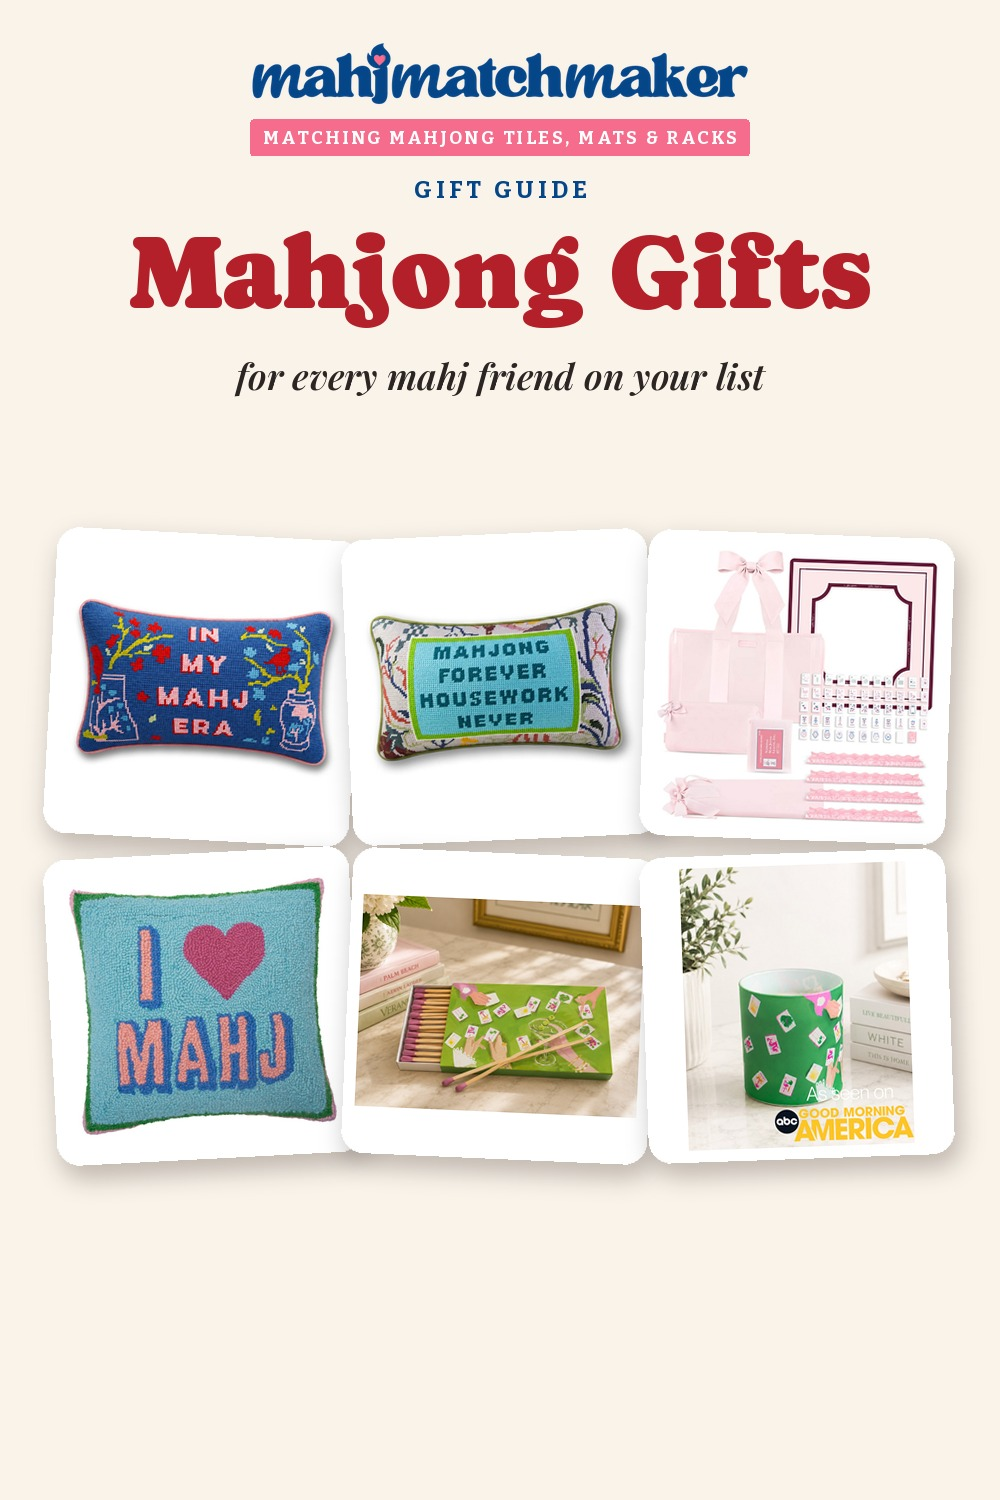
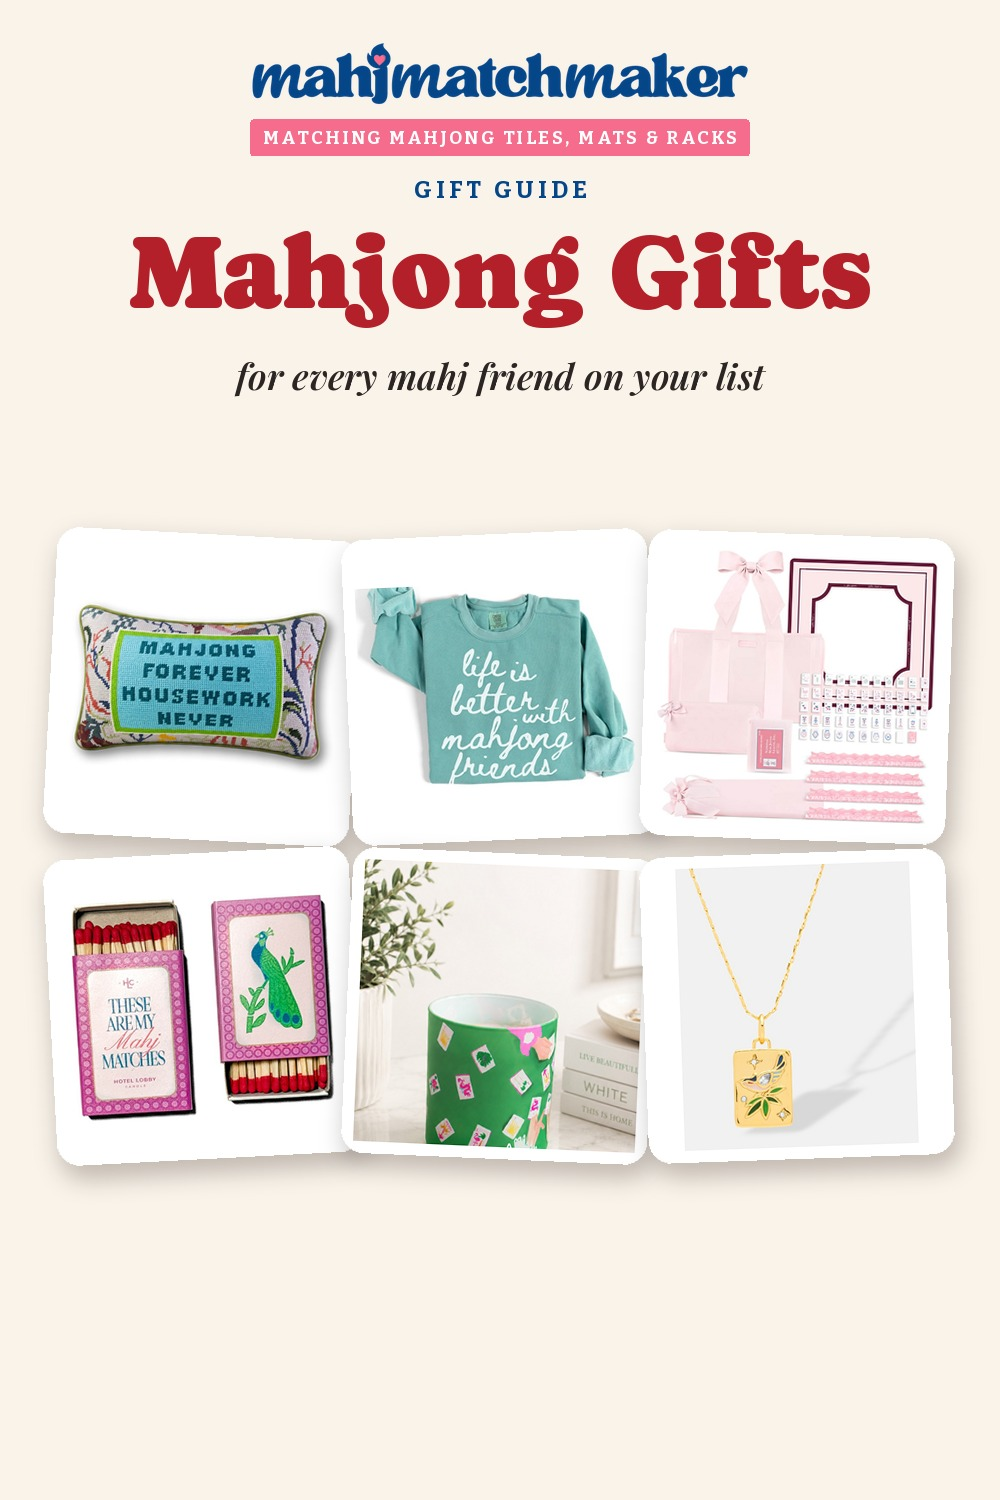
ShopMy Mahjong Gifts cover: new six
Claude-Session: https://claude.ai/code/session_01PiwamzEftkvrKP5d7A1QEB

diff --git a/scripts/shopmy/portrait_picks.py b/scripts/shopmy/portrait_picks.py
@@ -14,7 +14,7 @@ PICKS = {
  'the-mahjong-house': '27861 27725 27601 30241 29673 28852',
  'mahjong-storage': '14131 29865 30044 04470 04465 04455',
  'merry-mahjong': '16077 26001 32169 32833 16391 20906',
- 'mahjong-gifts': '16286 13699 17133 02354 20713 20708',
+ 'mahjong-gifts': '13699 49857 17133 21234 20708 20563'   # Oct 25 10:07pm: one pillow (Housework Never), sweatshirt, pink tote, Hotel Lobby matchbox duo, BAMS CLUB candle, Origami Owl tile necklace,
  'bam-lets-mahjong': '94546 94603 94625 59321 94505 94516',   # mats on top, matching tile sets below (59321/94505/94516 = BAM's own site photos)
  'betty-june-jeannette': '26037 26853 26603 25859 15115 14757',
  'halloween-mahjong-table': '37389 38653 37516 37993 39262 37822',

diff --git a/scripts/shopmy/make_covers.py b/scripts/shopmy/make_covers.py
@@ -21,6 +21,8 @@ def hexc(h): h = h.lstrip('#'); return tuple(int(h[i:i+2], 16) for i in (0, 2, 4
 
 # per-pin crop box (fractions l, t, r, b) to cut black bags / packaging
 CROP = {
+    96620708: (0, 0, 1, .80),      # green dice candle: drop the Good Morning America badge
+    97349857: (0, .09, 1, .90),      # Life is Better with Mahjong Friends sweatshirt: drop the 'seafoam' label + shop logo
     96210831: (0, 0, .845, .875),        # pink tiger moon: drop the rolled bag
     96210535: (0, 0, 1, 1),
     96212924: (0, 0, .80, .98),    # Sweet Jojo: drop the black bag

diff --git a/docs/ANSWERS.md b/docs/ANSWERS.md
@@ -198,3 +198,4 @@ Format: `- YYYY-MM-DD HH:MM · chat · topic · her answer in her words (short) 
 - 2026-10-25 9:56pm · Main · Tiffany: Bam Bird Boutique "Classic Tortoise" tile photo in FYM is way too zoomed out / tiles too tiny and sparse on the match card → crop in so tiles are bigger (album photo framing normally; "get that one into a split frame as well") → handed to Matches & Catalog (DESK). Also: Classic Tortoise on the Caramel leather mat is a boring all-brown tonal match; use that 1-card style only when a brand lacks enough products; aim for 3 cards. Layout still to decide (cards vs phone+card): must say "new mock-up TOOL" instantly.
 - Oct 25 ~10:05pm (Matches & Catalog, finding, not her answer): Mahjong by SI's 6 FYM mats were never Mahjong Co. mats; all 6 are live on www.mahjongbysi.com under the same handles (our links pointed at dead mahjongco.com URLs). Asked her: keep + relink to mahjongbysi.com (non-partner, no commission) or take out. Earlier 'sold via Mahjong Co.' answer was wrong.
 - 2026-10-25 ~10:20pm · Main · Partner graphics round 3 shown: 3 layouts for Mahjong Row & Co. (A 3-card fan, B phone swipe → match card, C phone in front of 2 cards); cards built by assets/social/partner-kit/gen.js (FYM colour ranking, brand filter, 3 different tile sets/mats/2 racks each, code bar replaced by "Swipe for your own match"); full brand names; phones only. Claude recommends B as the story. Waiting on her pick before building all ~40.
+- Oct 25 10:07pm: Mahjong Gifts cover DECIDED + live: Housework Never pillow, Life is Better with Mahjong Friends sweatshirt, pink Case-Mate set, Hotel Lobby matchbox duo, BAMS CLUB candle, Origami Owl tile necklace (other two pillows + Rebecca matches out).
